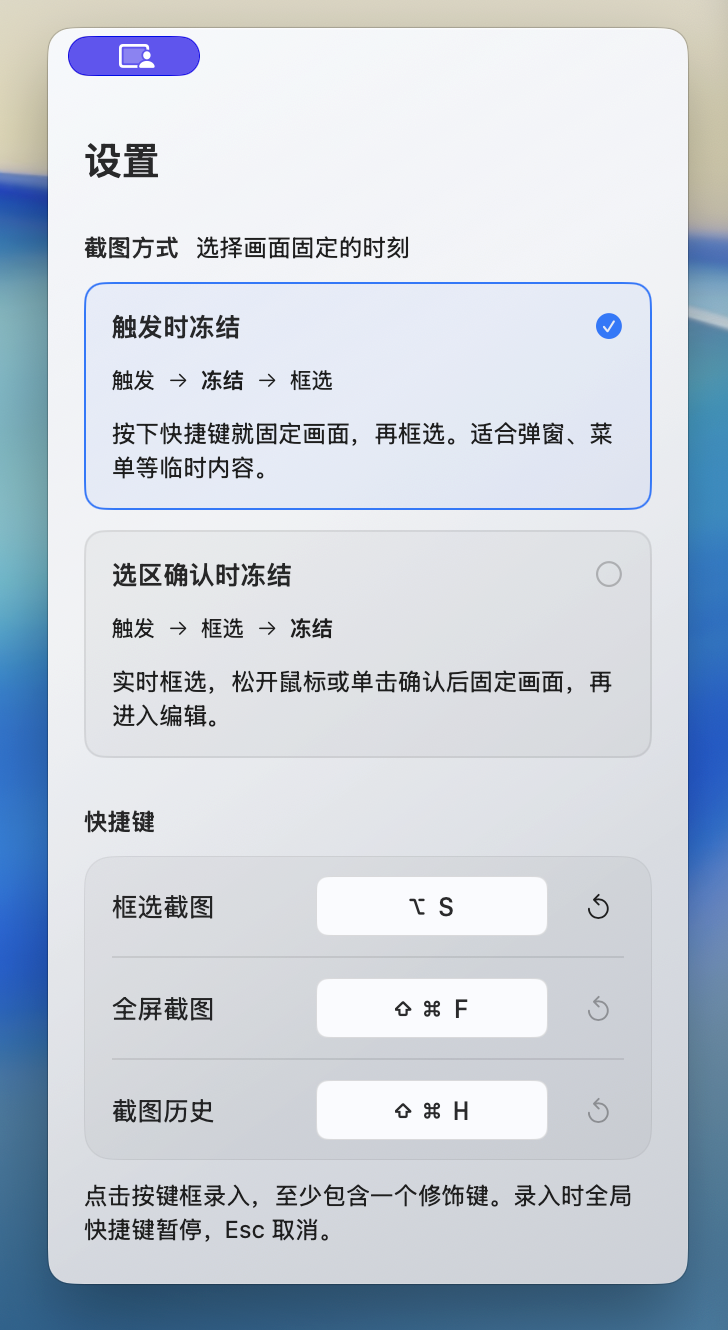
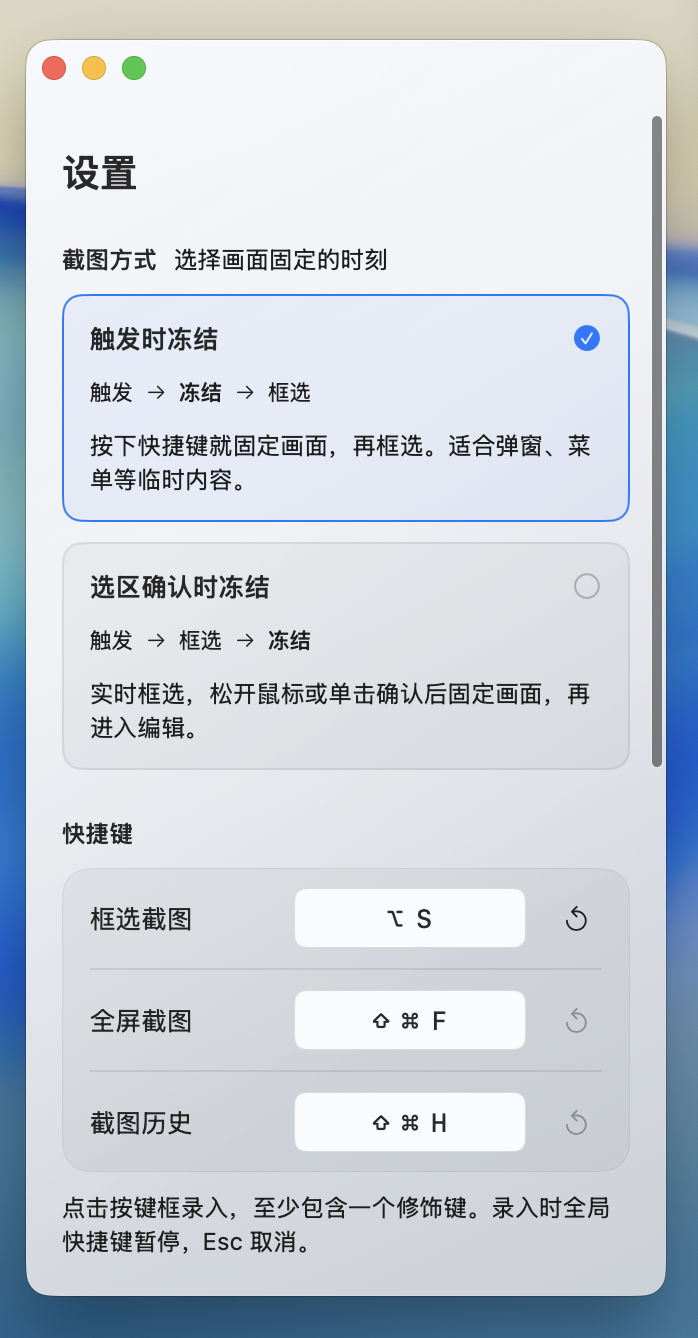
Use clean light settings screenshot without control overlay

diff --git a/README.md b/README.md
@@ -77,7 +77,7 @@ SnapX 是一款常驻 Mac 菜单栏的截图工具。框选之后直接在原位
   <img src="docs/images/settings-dark.png" width="320" alt="当前深色设置界面：相同布局与蓝色强调色">
 </p>
 
-*以上为已安装 SnapX 的实际窗口截图，保留原始画面。浅色图左上角的紫色标记为系统控制提示，不属于 SnapX 界面；图中的 ⌥S 为自定义快捷键，默认仍为 ⌘⇧S。*
+*以上为已安装 SnapX 的实际窗口截图，保留原始画面。图中的 ⌥S 为自定义快捷键，默认仍为 ⌘⇧S。*
 
 支持跟随系统、浅色和深色外观，切换时平滑过渡。设置页使用细浮动滚动条，快捷键、登录时启动和权限入口集中在一处。
 
